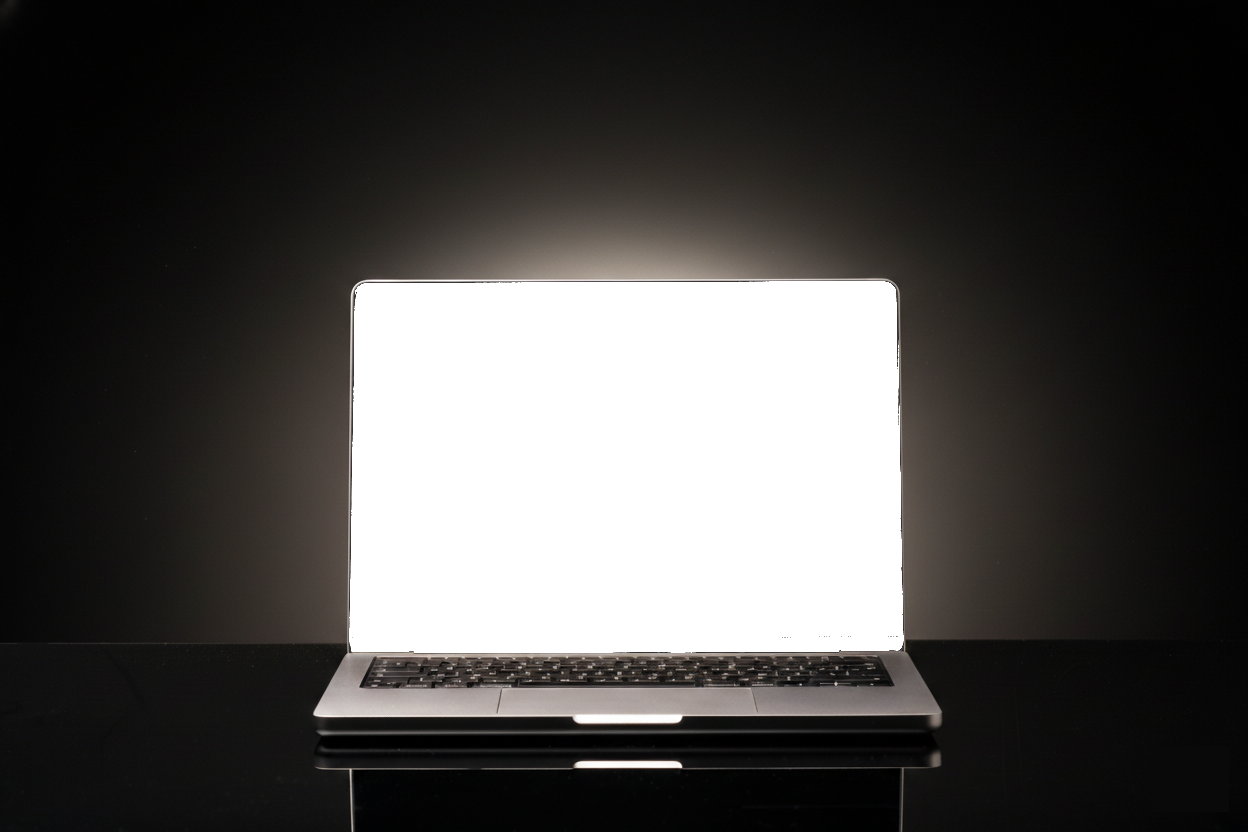
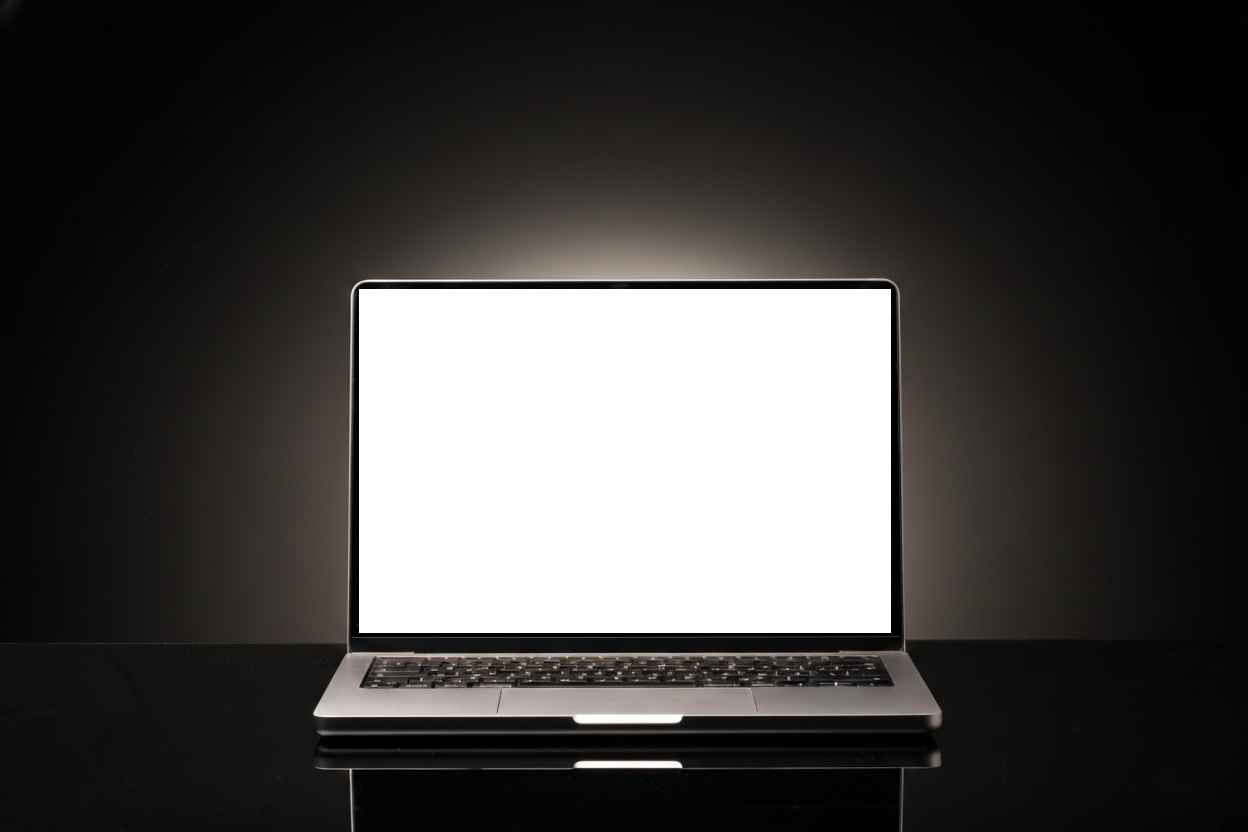
[fix] Intro 컴포넌트 디자인 수정 및 맥북 이미지 교체

Changed region(s): [[0.2812, 0.3125, 0.75, 0.8125]]

diff --git a/components/organisms/Intro.tsx b/components/organisms/Intro.tsx
@@ -1,0 +1,121 @@
+'use client';
+
+import {
+  greetingMessage,
+  greetingMessageType,
+} from '@/constants/greetingMessage';
+import { motion, useScroll, useTransform, Variants } from 'motion/react';
+import Image from 'next/image';
+import { useRef } from 'react';
+
+type IntroProps = {
+  visitType: greetingMessageType;
+};
+
+const TRANSFORM_ORIGIN = 'center 60%';
+
+const containerVariants: Variants = {
+  hidden: { opacity: 0 },
+  visible: {
+    opacity: 1,
+    transition: {
+      staggerChildren: 0.04,
+      delayChildren: 0.04,
+    },
+  },
+};
+
+const Intro = ({ visitType }: IntroProps) => {
+  const wrapperRef = useRef<HTMLDivElement>(null);
+
+  const { scrollYProgress } = useScroll({
+    target: wrapperRef,
+    offset: ['start start', 'end end'],
+  });
+
+  const scale = useTransform(scrollYProgress, [0, 1], [1, 2.5]);
+  const blurOpacity = useTransform(scrollYProgress, [0, 1], [1, 0]);
+  const messageScale = useTransform(scrollYProgress, [0, 1], [0.6, 1.4]);
+  const messageOpacity = useTransform(scrollYProgress, [0, 0.5, 1], [0, 1, 1]);
+
+  const titleText = greetingMessage[visitType].title;
+  const messageText = greetingMessage[visitType].message;
+  const letters = titleText.split('');
+
+  return (
+    <section
+      ref={wrapperRef}
+      className='relative h-[200vh] min-h-[150vh] w-full sm:h-[200vh]'
+      aria-label='인트로 섹션'
+    >
+      <div className='sticky top-0 z-50 h-screen w-full overflow-hidden'>
+        <div className='pointer-events-none absolute inset-0 z-0 flex items-center justify-center'>
+          <motion.div
+            className='px-4 text-center'
+            style={{
+              scale: messageScale,
+              opacity: messageOpacity,
+              transformOrigin: TRANSFORM_ORIGIN,
+            }}
+          >
+            <motion.h1
+              className='text-fluid-h1 text-foreground/90 flex justify-center font-semibold'
+              variants={containerVariants}
+              initial='hidden'
+              animate='visible'
+              aria-label={titleText}
+            >
+              {letters.map((letter, index) => (
+                <motion.span
+                  key={`${letter}-${index}`}
+                  animate={{
+                    y: [0, -10, 0],
+                  }}
+                  transition={{
+                    duration: 2,
+                    repeat: Infinity,
+                    ease: 'easeInOut',
+                    delay: index * 0.1,
+                  }}
+                  className='inline-block'
+                  aria-hidden='true'
+                >
+                  {letter === ' ' ? '\u00A0' : letter}
+                </motion.span>
+              ))}
+            </motion.h1>
+            <p className='text-foreground/80 mx-auto mt-3 max-w-2xl text-base sm:text-lg md:text-xl'>
+              {messageText}
+            </p>
+          </motion.div>
+        </div>
+        <div className='pointer-events-none relative h-full w-full'>
+          <motion.div
+            className='absolute inset-0 z-0 backdrop-blur-sm'
+            style={{ opacity: blurOpacity }}
+            aria-hidden='true'
+          />
+          <motion.div
+            className='relative h-full w-full'
+            style={{
+              scale,
+              transformOrigin: TRANSFORM_ORIGIN,
+            }}
+          >
+            <Image
+              src='/macbook.png'
+              alt={`${titleText} - 포트폴리오 배경 이미지`}
+              fill
+              priority
+              quality={90}
+              sizes='100vw'
+              className='z-10 object-cover'
+            />
+          </motion.div>
+        </div>
+      </div>
+    </section>
+  );
+};
+
+export default Intro;

diff --git a/components/templates/HeroSection.tsx b/components/templates/HeroSection.tsx
@@ -2,8 +2,8 @@
 
 import { useVisitInfo } from '@/hooks/useVisitType';
 import { useState } from 'react';
-import { Hero } from './Hero';
-import Intro from './Intro';
+import { Hero } from '../organisms/Hero';
+import Intro from '../organisms/Intro';
 
 const HeroSection = () => {
   const { visitType, visitedToday, ready } = useVisitInfo();
